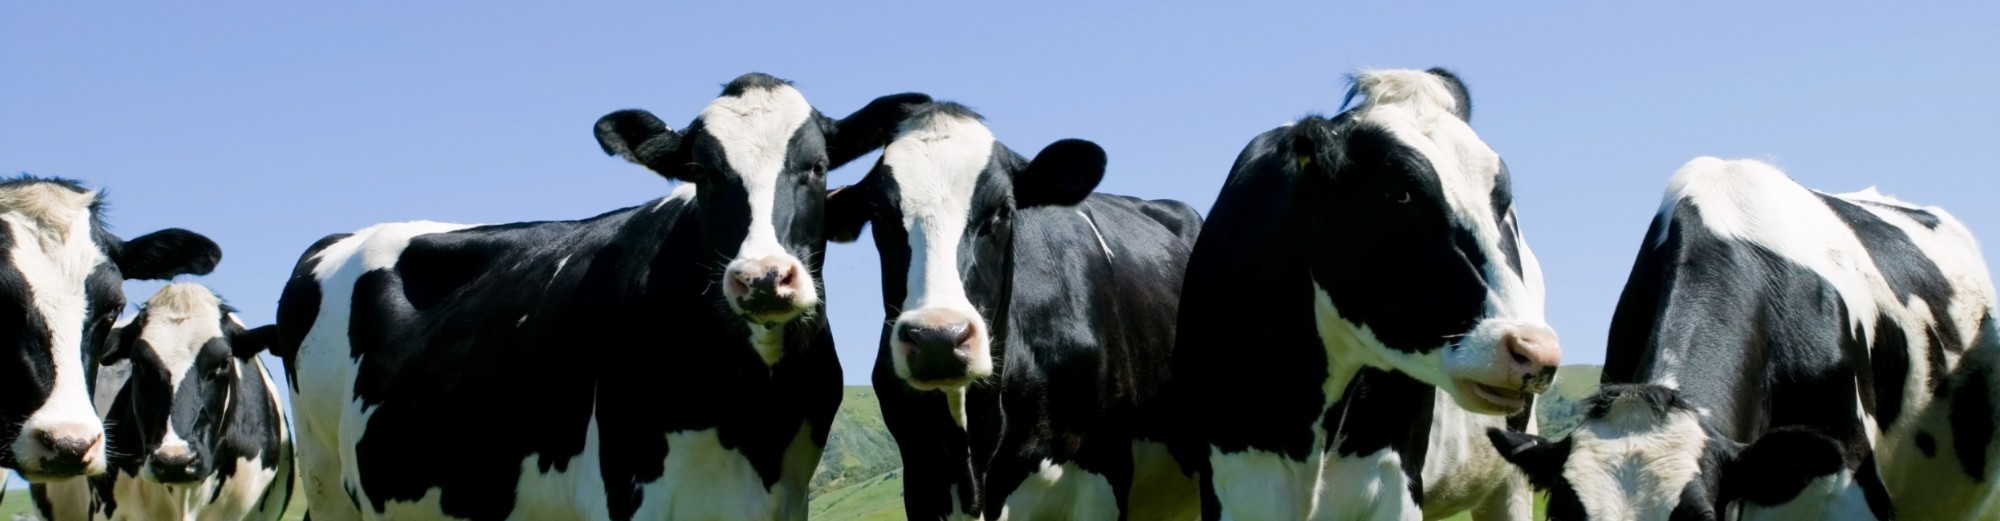
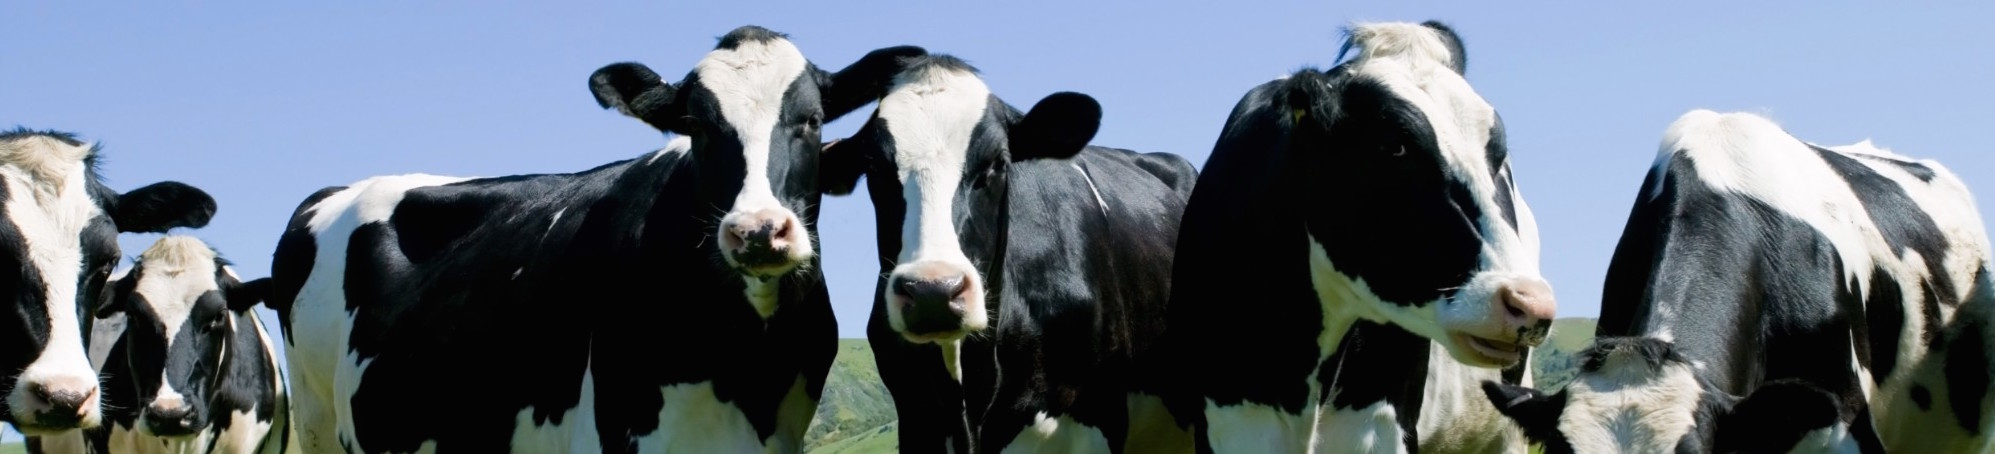
Cow photo dynamics, botton spacing on index

diff --git a/app/assets/stylesheets/application.css.scss b/app/assets/stylesheets/application.css.scss
@@ -4,6 +4,7 @@
 
 body {
   margin-left: 20px;
+  margin-right: 0 auto;
 }
 
 btn.title_link {
@@ -23,11 +24,15 @@ div.title_link {
 div.title_link_holder {
   display: flex;
   justify-content: center;
+  padding-top: 10px;
+  padding-bottom: 30px;
 }
 
 h1.title_page {
   font-family: Lobster;
   font-size: 2cm;
+  padding-top: 20px;
+  padding-bottom: 20px;
 }
 
 h1, h2, h3, h4, h5, h6 {
@@ -35,12 +40,15 @@ h1, h2, h3, h4, h5, h6 {
   }
 
 header.cows {
-  height: 330px;
+  margin: 0 auto;
 }
 
 header img.cows {
-  width: 1200px;
-  height: 330px;
+  width: 100%;
+  height: 30%;
+  margin: 0 auto;
+  min-width: 1200px;
+  min-height: 200px;
 }
 
 #market_link {
